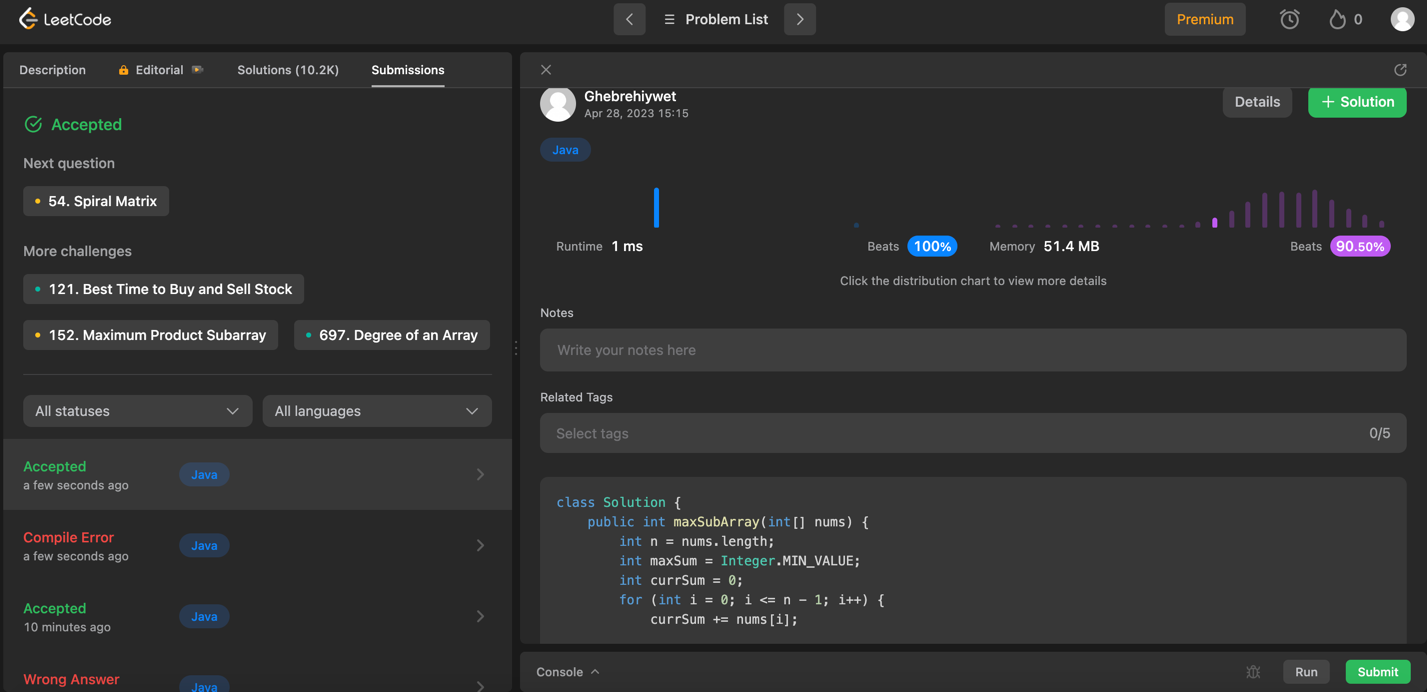
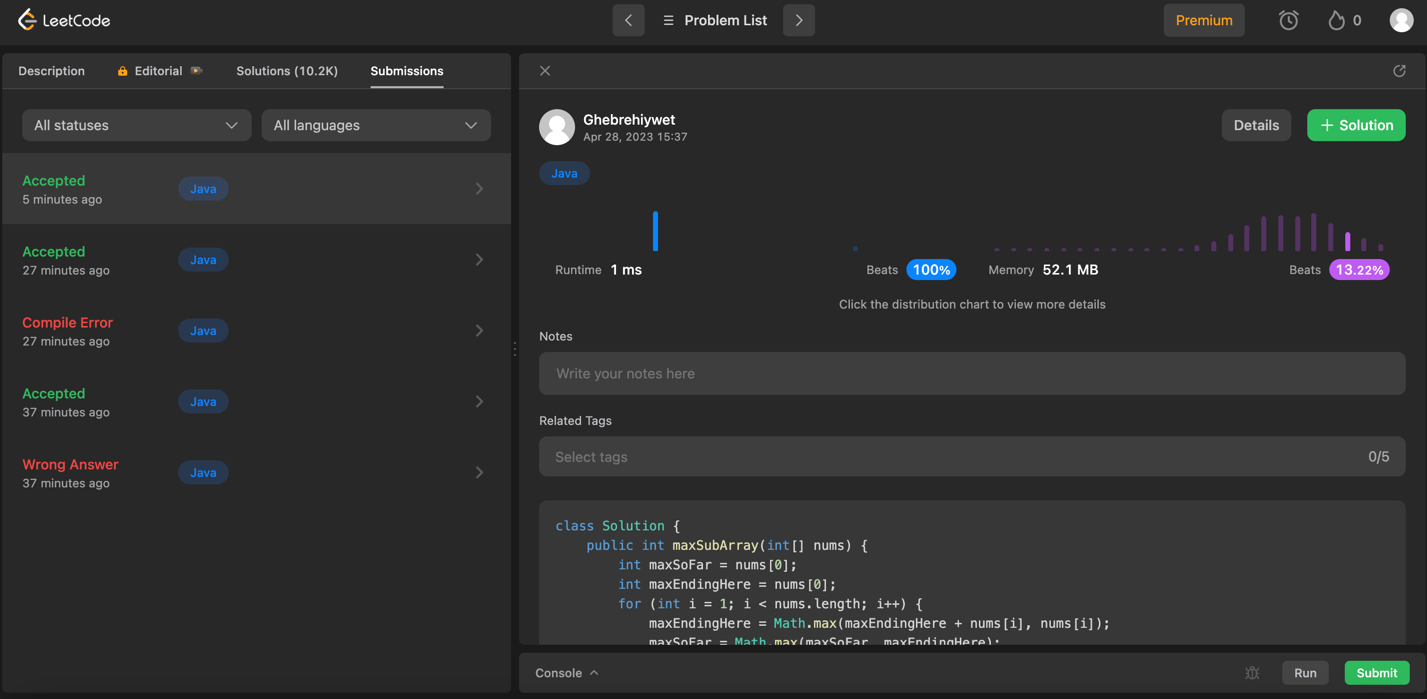
update on the solutions

diff --git a/src/main/com/github/gridu/dsa/SameTree.java b/src/main/com/github/gridu/dsa/SameTree.java
@@ -1,9 +1,30 @@
 package com.github.gridu.dsa;
 
+import java.util.LinkedList;
+import java.util.Queue;
+
 public class SameTree {
     public static boolean isSameTree(TreeNode p, TreeNode q) {
-        if(p==null&&q==null) return true;
-        if(p==null || q==null)return false;
-        return (p.val==q.val)&&isSameTree(p.left, q.left)&&isSameTree(p.right, q.right);
+        Queue<TreeNode> queue = new LinkedList<>();
+        queue.offer(p);
+        queue.offer(q);
+
+        while (!queue.isEmpty()) {
+            TreeNode node1 = queue.poll();
+            TreeNode node2 = queue.poll();
+
+            if (node1 == null && node2 == null) {
+                continue;
+            } else if (node1 == null || node2 == null || node1.val != node2.val) {
+                return false;
+            } else {
+                queue.offer(node1.left);
+                queue.offer(node2.left);
+                queue.offer(node1.right);
+                queue.offer(node2.right);
+            }
+        }
+
+        return true;
     }
 }

diff --git a/src/main/com/github/gridu/dsa/MaximumSubarray.java b/src/main/com/github/gridu/dsa/MaximumSubarray.java
@@ -2,18 +2,12 @@ package com.github.gridu.dsa;
 
 public class MaximumSubarray {
     public int maxSubArray(int[] nums) {
-        int n = nums.length;
-        int maxSum = Integer.MIN_VALUE;
-        int currSum = 0;
-        for (int i = 0; i <= n - 1; i++) {
-            currSum += nums[i];
-            if (currSum > maxSum) {
-                maxSum = currSum;
-            }
-            if (currSum < 0) {
-                currSum = 0;
-            }
+        int maxSoFar = nums[0];
+        int maxEndingHere = nums[0];
+        for (int i = 1; i < nums.length; i++) {
+            maxEndingHere = Math.max(maxEndingHere + nums[i], nums[i]);
+            maxSoFar = Math.max(maxSoFar, maxEndingHere);
         }
-        return maxSum;
+        return maxSoFar;
     }
 }

diff --git a/src/main/com/github/gridu/dsa/ReverseLinkedList.java b/src/main/com/github/gridu/dsa/ReverseLinkedList.java
@@ -1,17 +1,16 @@
 package com.github.gridu.dsa;
 
 public class ReverseLinkedList {
+    // Reverse Linked List using recursion
     public ListNode reverseList(ListNode head) {
-        ListNode prev = null;
-        ListNode current = head;
-
-
-        while (current != null) {
-            ListNode next = current.next;
-            current.next = prev;
-            prev = current;
-            current = next;
+        if (head == null || head.next == null) {
+            return head;
         }
-        return prev;
+
+        ListNode newHead = reverseList(head.next);
+        head.next.next = head;
+        head.next = null;
+
+        return newHead;
     }
 }
